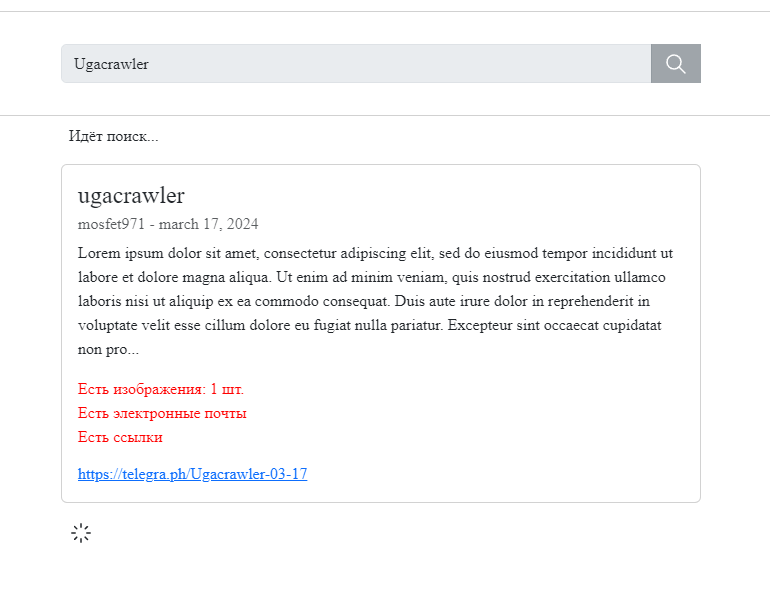
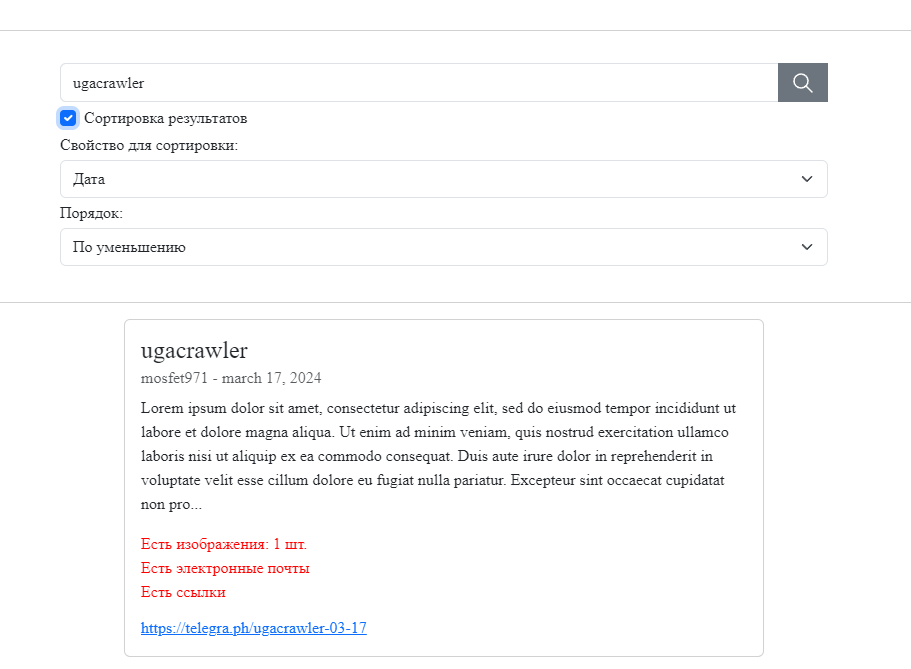
readme update

diff --git a/README.md b/README.md
@@ -1,10 +1,13 @@
 # Ugacrawler
 
-Поисковик страниц в telegra.ph с графическим интерфейсом. Приложение осуществляет поиск страниц по заголовкам, выводя на экран результаты в виде карточек со ссылкой и краткой информацией. 
+Поисковик страниц в telegra.ph с графическим интерфейсом. Приложение осуществляет поиск страниц по заголовкам, выводя на экран результаты в виде карточек со ссылкой и краткой информацией. Есть
+возможность сортировки результатов.
 
 ## Запуск
 
-Приложение для Windows можно скачать по ссылке: https://github.com/mosfet971/ugacrawler/releases/download/1.0.0/ugacrawler-win32-x64.zip
+Приложение для Windows можно скачать по ссылке: https://github.com/mosfet971/ugacrawler/releases/download/1.1.0/ugacrawler-win32-x64.zip
+
+Для linux: https://github.com/mosfet971/ugacrawler/releases/download/1.1.0/ugacrawler-linux-x64.zip
 
 Также возможен запуск при помощи командной строки:
 
